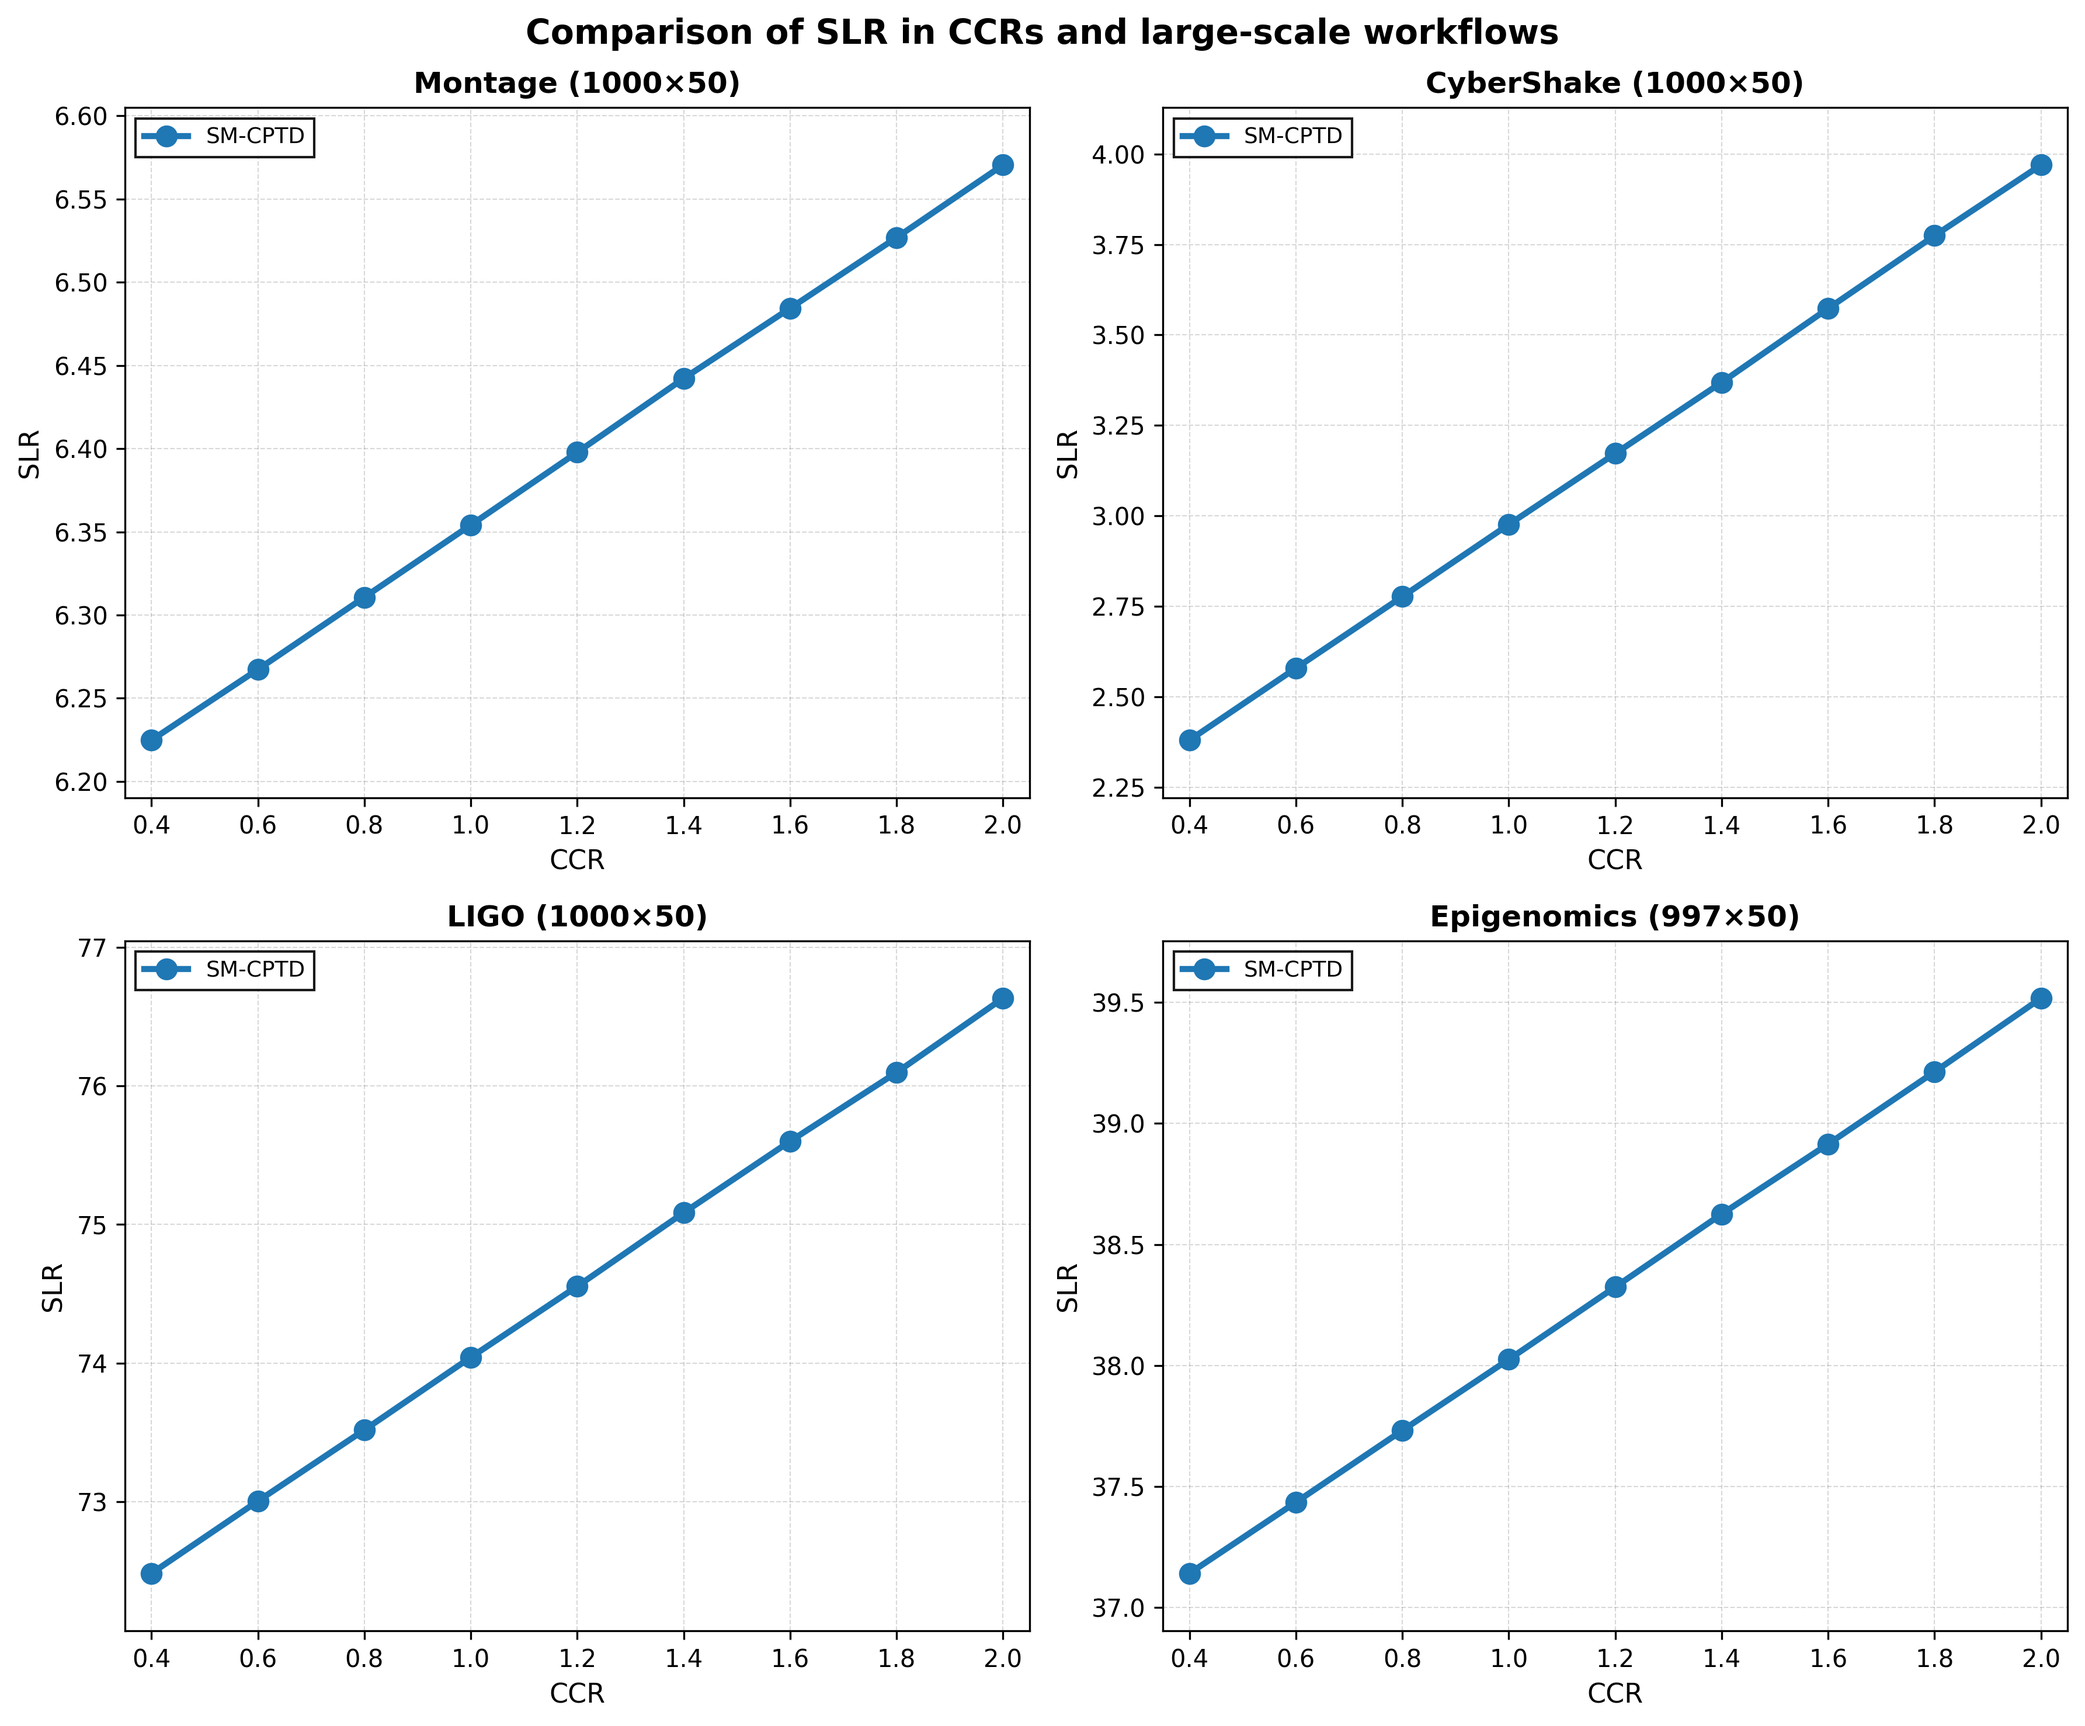
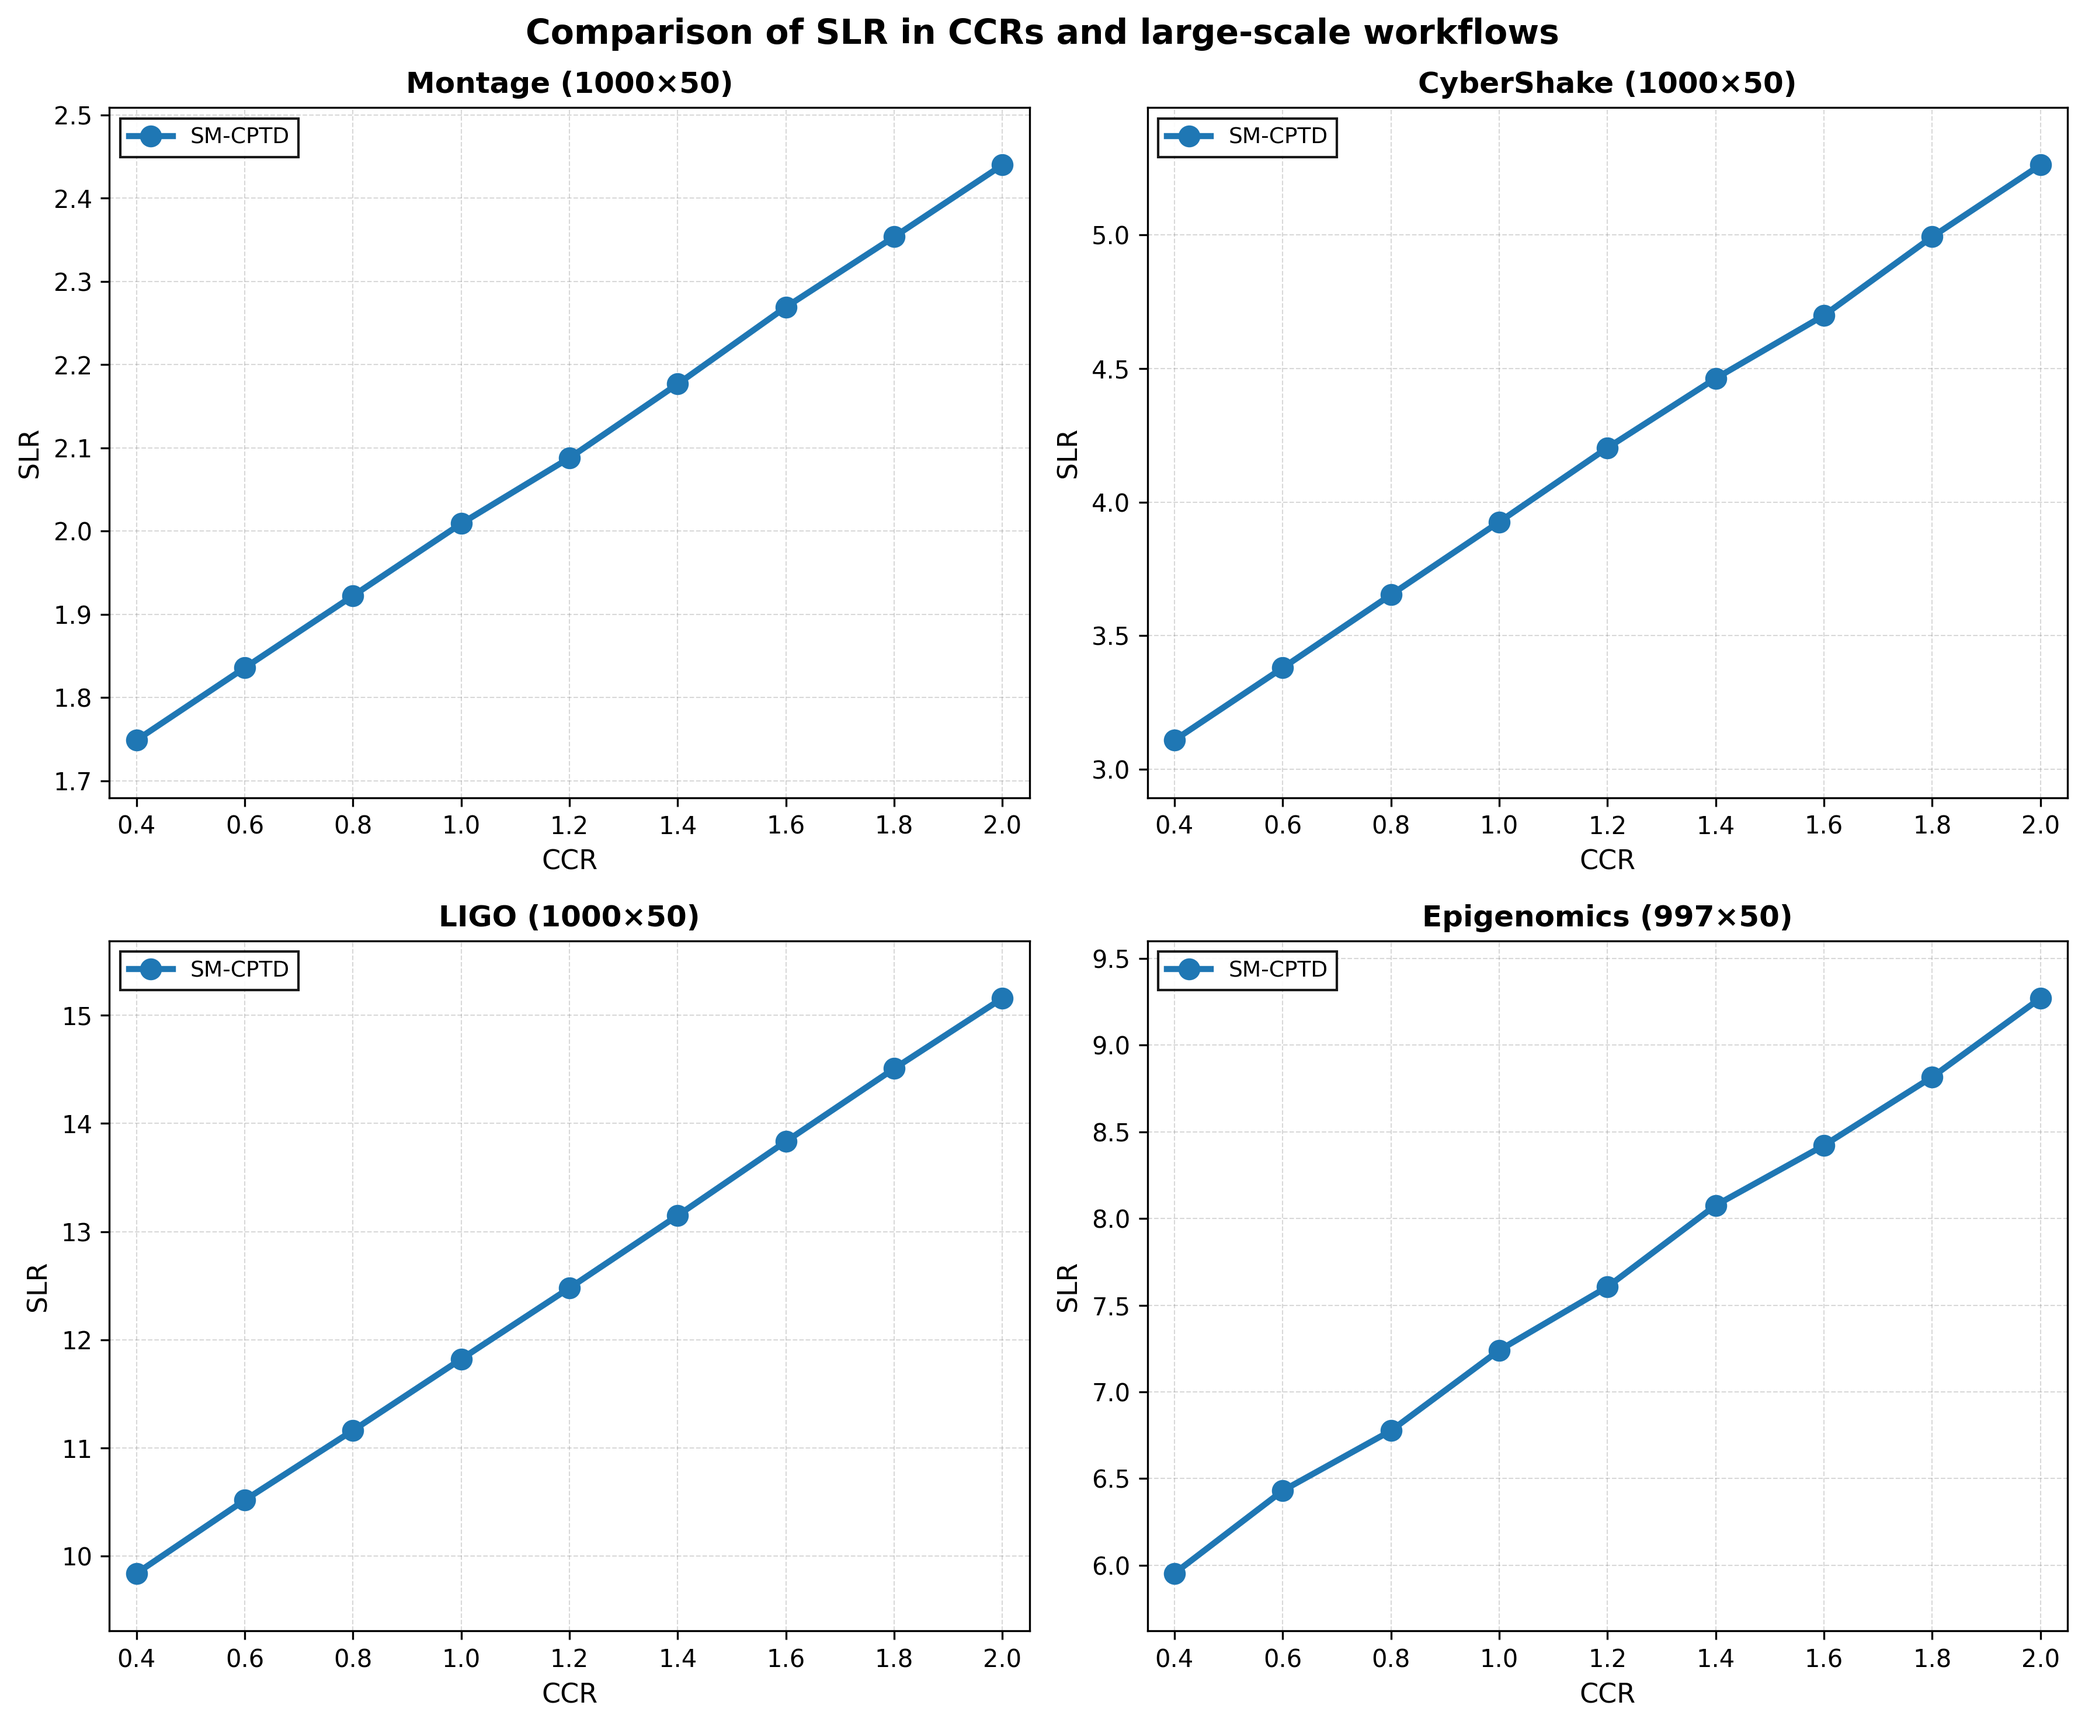
feat: Update DCP algorithm for realistic execution time estimation and add cleanup script

diff --git a/generators/plot_experiments.py b/generators/plot_experiments.py
@@ -75,7 +75,7 @@ def plot_metric_by_workflow(organized, metric, metric_label, output_file):
     fig.suptitle(f'SM-CPTD: {metric_label} vs CCR', fontsize=16, fontweight='bold')
     
     # Workflow Pegasus disponibili
-    workflow_names = ['MONTAGE', 'EPIGENOMICS', 'CYCLES', 'SRASEARCH']
+    workflow_names = ['cybershake', 'epigenomics', 'ligo', 'montage']
     
     for idx, wf_name in enumerate(workflow_names):
         ax = axes[idx // 2, idx % 2]
@@ -122,8 +122,8 @@ def plot_all_metrics_single_size(organized, tasks_filter, output_file):
     fig, axes = plt.subplots(1, 3, figsize=(15, 5))
     fig.suptitle(f'SM-CPTD Performance ({tasks_filter} tasks) vs CCR', fontsize=14, fontweight='bold')
     
-    colors = {'MONTAGE': '#2196F3', 'EPIGENOMICS': '#4CAF50', 'CYCLES': '#FF9800', 'SRASEARCH': '#9C27B0'}
-    markers = {'MONTAGE': 'o', 'EPIGENOMICS': 's', 'CYCLES': '^', 'SRASEARCH': 'D'}
+    colors = {'cybershake': '#2196F3', 'epigenomics': '#4CAF50', 'ligo': '#FF9800', 'montage': '#9C27B0'}
+    markers = {'cybershake': 'o', 'epigenomics': 's', 'ligo': '^', 'montage': 'D'}
     
     metrics = [('slr', 'SLR (Schedule Length Ratio)'), 
                ('avu', 'AVU (Average VM Utilization)'),
@@ -246,8 +246,8 @@ def plot_paper_style_by_category(organized, output_dir):
         'large': {'tasks_range': (900, 1600), 'title': 'Large Workflows (1000-1500 tasks, 50 VMs)'}
     }
     
-    colors = {'MONTAGE': '#1f77b4', 'EPIGENOMICS': '#ff7f0e', 'CYCLES': '#2ca02c', 'SRASEARCH': '#d62728'}
-    markers = {'MONTAGE': 'o', 'EPIGENOMICS': 's', 'CYCLES': '^', 'SRASEARCH': 'D'}
+    colors = {'cybershake': '#1f77b4', 'epigenomics': '#ff7f0e', 'ligo': '#2ca02c', 'montage': '#d62728'}
+    markers = {'cybershake': 'o', 'epigenomics': 's', 'ligo': '^', 'montage': 'D'}
     
     for cat_name, cat_config in categories.items():
         fig, axes = plt.subplots(1, 3, figsize=(15, 4.5))
@@ -345,14 +345,14 @@ def plot_exp2_vm_effect(organized_exp2, output_dir):
         print("⚠ Nessun dato per Esperimento 2 (VM effect)")
         return
     
-    colors = {'MONTAGE': '#1f77b4', 'EPIGENOMICS': '#ff7f0e', 'CYCLES': '#2ca02c', 'SRASEARCH': '#d62728'}
-    markers = {'MONTAGE': 'o', 'EPIGENOMICS': 's', 'CYCLES': '^', 'SRASEARCH': 'D'}
+    colors = {'cybershake': '#1f77b4', 'epigenomics': '#ff7f0e', 'ligo': '#2ca02c', 'montage': '#d62728'}
+    markers = {'cybershake': 'o', 'epigenomics': 's', 'ligo': '^', 'montage': 'D'}
     
     # Figura 9: SLR vs VMs (2x2 subplots, uno per workflow)
     fig, axes = plt.subplots(2, 2, figsize=(12, 10))
     fig.suptitle('SM-CPTD: SLR vs Number of VMs (1000 tasks, CCR=1.0)', fontsize=14, fontweight='bold')
     
-    workflow_order = ['MONTAGE', 'EPIGENOMICS', 'CYCLES', 'SRASEARCH']
+    workflow_order = ['cybershake', 'epigenomics', 'ligo', 'montage']
     
     for idx, wf_name in enumerate(workflow_order):
         ax = axes[idx // 2, idx % 2]

diff --git a/algorithms/ExperimentRunner.java b/algorithms/ExperimentRunner.java
@@ -31,8 +31,8 @@ public class ExperimentRunner {
     // ============================================================================
     
     // Numero di run multiple per stabilizzare i risultati
-    private static final int NUM_RUNS = 10;      // Run effettive da mediare
-    private static final int WARMUP_RUNS = 1;    // Run di warmup da scartare
+    private static final int NUM_RUNS = 1;       // TEMPORANEO: 1 run per test veloce (poi riportare a 10)
+    private static final int WARMUP_RUNS = 0;    // TEMPORANEO: 0 warmup per test veloce (poi riportare a 1)
     
     // Workflow Pegasus XML reali dal paper (convertiti da XML a CSV)
     private static final String[] WORKFLOWS = {"cybershake", "epigenomics", "ligo", "montage"};
@@ -158,11 +158,11 @@ public class ExperimentRunner {
         System.out.println("=".repeat(70));
         
         // Small workflows - usa configurazioni specifiche per ogni workflow
-        System.out.println("\n📦 SMALL WORKFLOWS (30-50 task - 5 VM)");
+        System.out.println("\n📦 SMALL WORKFLOWS (47-50 task - 5 VM)");
         for (String workflow : workflows) {
-            // CyberShake ha 30 task, gli altri hanno 47-50 task
             if (workflow.equals("cybershake")) {
-                runCCRExperiment(new String[]{workflow}, 30, 5, "EXP1_SMALL");
+                // CyberShake ha sia 30 che 50 task disponibili - usa 50
+                runCCRExperiment(new String[]{workflow}, 50, 5, "EXP1_SMALL");
             } else if (workflow.equals("epigenomics")) {
                 runCCRExperiment(new String[]{workflow}, 47, 5, "EXP1_SMALL");
             } else {
@@ -270,8 +270,8 @@ public class ExperimentRunner {
             // Esperimento 2: cerca directory con VM specificato
             workflowDir = findPegasusWorkflowDir(workflow.toLowerCase(), numTasks, numVMs);
         } else {
-            // Esperimento 1: cerca solo per numero task
-            workflowDir = findPegasusWorkflowDir(workflow.toLowerCase(), numTasks);
+            // Esperimento 1: passa comunque il numero di VM al parser per generare capacità corrette
+            workflowDir = findPegasusWorkflowDir(workflow.toLowerCase(), numTasks, numVMs);
         }
         
         if (workflowDir == null) {

diff --git a/algorithms/DCP.java b/algorithms/DCP.java
@@ -165,9 +165,9 @@ public class DCP {
             if (predAFT == null) {
                 task predTask = taskMap.get(predId);
                 if (predTask != null) {
-                    // OPTIMISTIC ESTIMATION: Use MINIMUM execution time
-                    // This assumes non-CP task will be scheduled on fastest VM
-                    double estimatedET = getMinExecutionTime(predTask, vmMapping);
+                    // REALISTIC ESTIMATION: Use AVERAGE execution time (as per paper Section 3.2.1)
+                    // MIN was too optimistic for workflows with long dependency chains
+                    double estimatedET = getAverageExecutionTime(predTask, vmMapping);
                     
                     // Recursively estimate start time of non-CP predecessor
                     double estimatedST = 0.0;
@@ -328,7 +328,7 @@ public class DCP {
     
     /**
      * Calculate MINIMUM execution time for a task across all VMs
-     * Used for optimistic estimation of non-CP task completion times
+     * Kept for potential future use, but getAverageExecutionTime is preferred
      */
     private static double getMinExecutionTime(task t, Map<Integer, VM> vmMapping) {
         if (vmMapping == null || vmMapping.isEmpty()) {
@@ -346,6 +346,31 @@ public class DCP {
         }
         
         return minET < Double.MAX_VALUE ? minET : t.getSize();
+    }
+    
+    /**
+     * Calculate AVERAGE execution time for a task across all VMs
+     * Used for realistic estimation of non-CP task completion times
+     * (as specified in paper Section 3.2.1)
+     */
+    private static double getAverageExecutionTime(task t, Map<Integer, VM> vmMapping) {
+        if (vmMapping == null || vmMapping.isEmpty()) {
+            return t.getSize();
+        }
+        
+        double sumET = 0.0;
+        int count = 0;
+        
+        for (VM vm : vmMapping.values()) {
+            double processingCapacity = vm.getCapability("processingCapacity");
+            if (processingCapacity > 0) {
+                double et = t.getSize() / processingCapacity;
+                sumET += et;
+                count++;
+            }
+        }
+        
+        return count > 0 ? (sumET / count) : t.getSize();
     }
 
     
